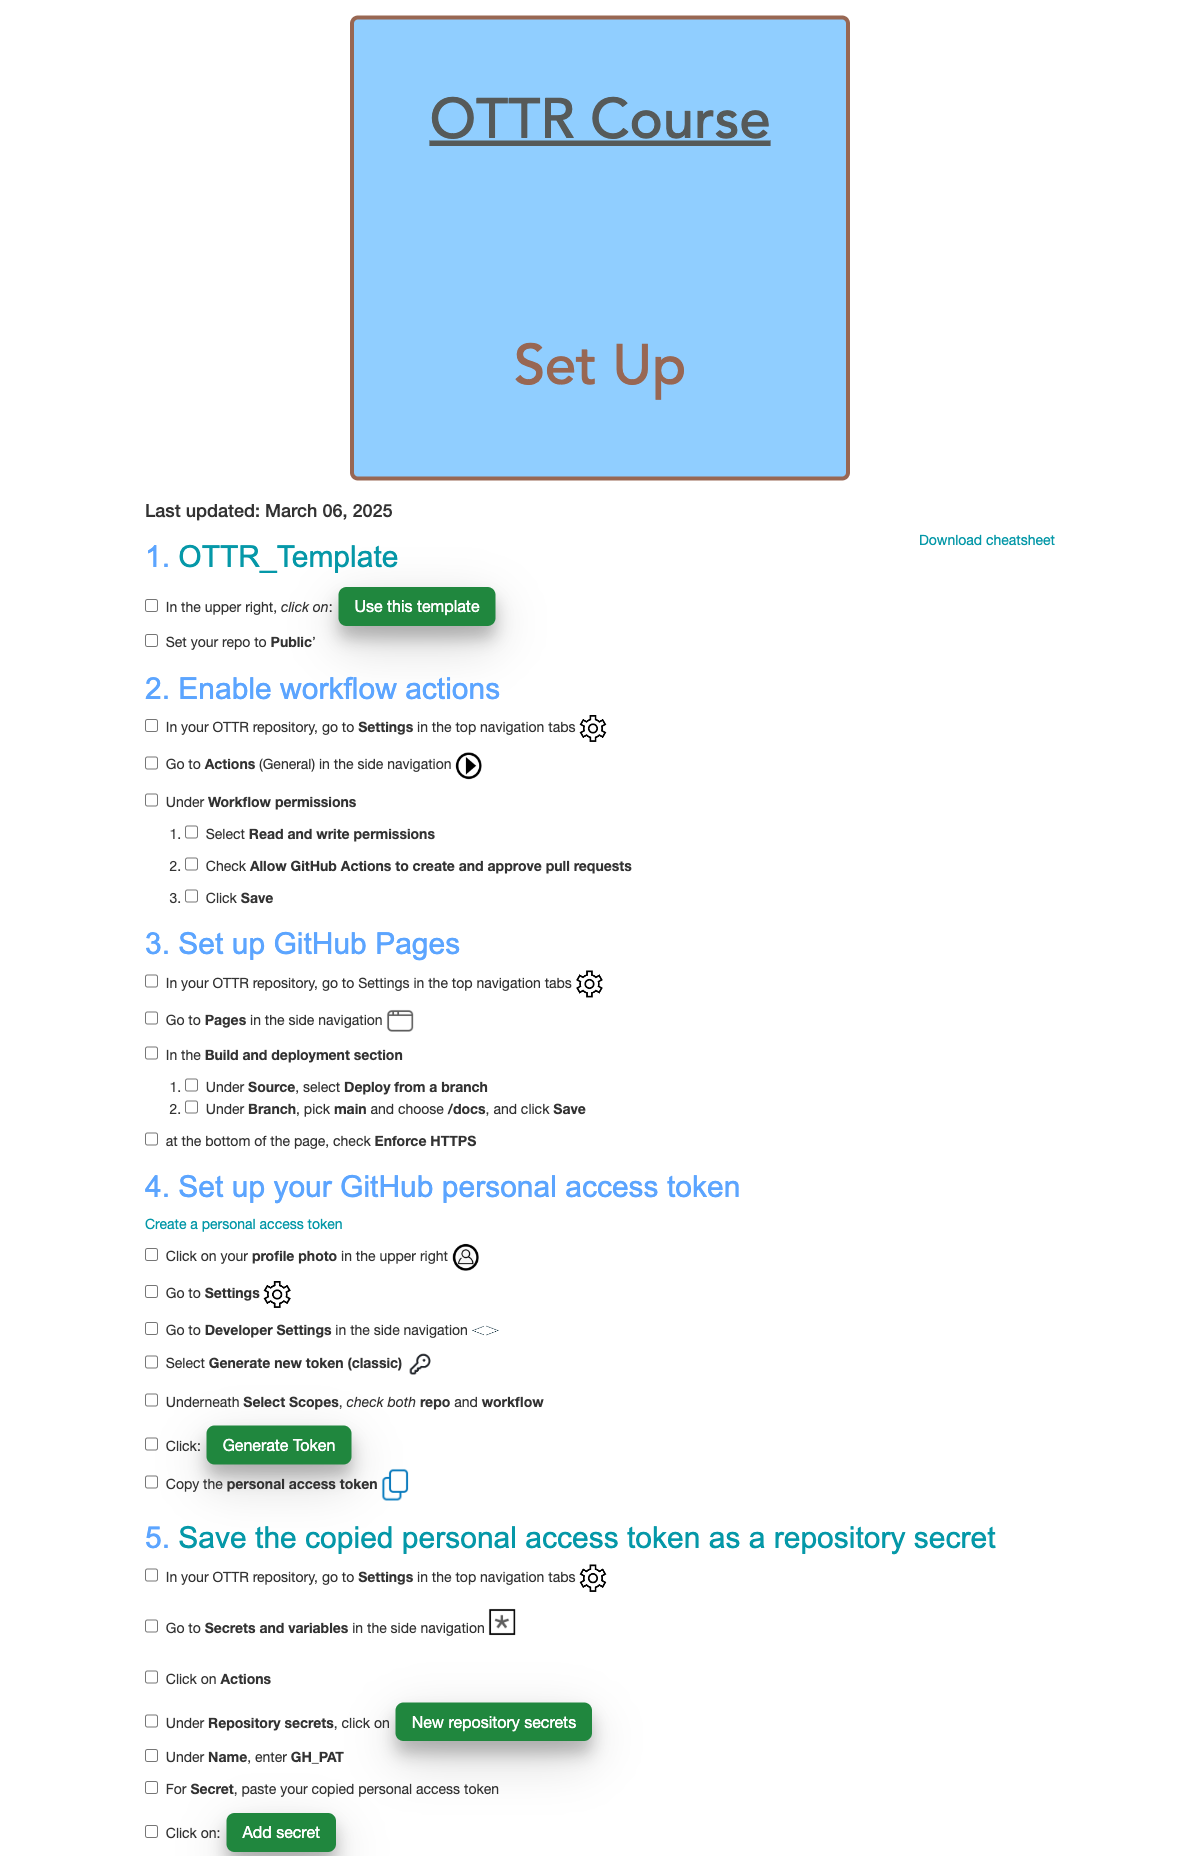
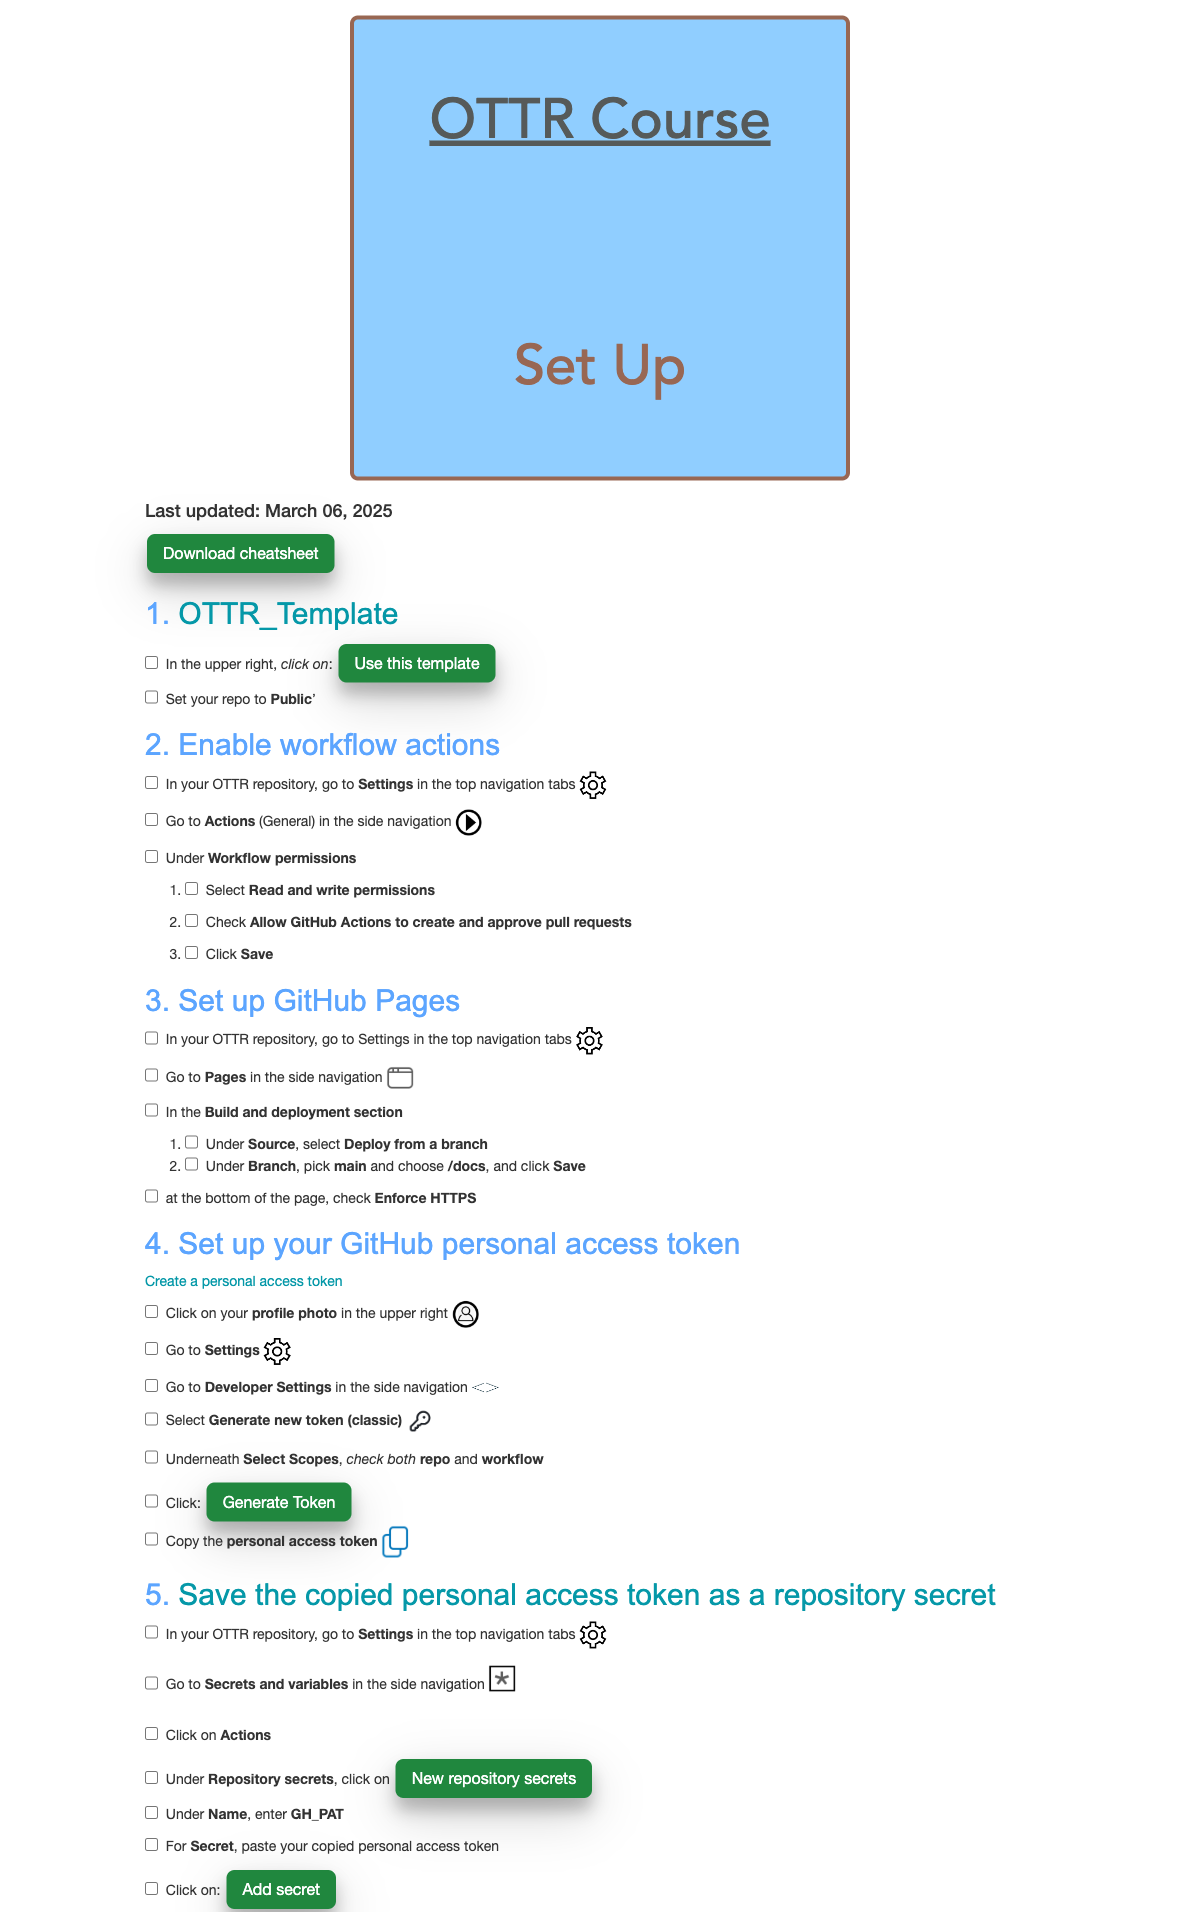
Fix file paths

diff --git a/docs/ottr_quarto_course.html b/docs/ottr_quarto_course.html
@@ -174,10 +174,12 @@ Set Up<br />
 </div>
 
 
-<p><link rel="shortcut icon" href="resources/images/favicon.ico" />
+<p><link rel="shortcut icon" href="css/images/ITN_favicon.ico" />
 <!--- go to https://favicon.io/favicon-converter/ to upload an image to make a new favicon.io. You will need to replace the current favicon.io image with the one in the downloaded directory from the website. The current image is in the resources/images/ directory ---></p>
-<p><a href="https://raw.githubusercontent.com/jhudsl/cheatsheets/refs/heads/main/ottr_quarto_course.png" download="cheatsheet.png" style="float: right;">Download
-cheatsheet</a></p>
+<div class="github_button">
+<a href="https://raw.githubusercontent.com/jhudsl/cheatsheets/refs/heads/main/ottr_quarto_course.png">Download
+cheatsheet</a>
+</div>
 <div id="ottr_quarto" class="section level2">
 <h2><a href="https://github.com/fhdsl/OTTR_Quarto">OTTR_Quarto</a></h2>
 <input type="checkbox"> In the upper right, <em>click on</em>:
@@ -244,7 +246,7 @@ in the upper right
 <img src='resources/icons/settings_gear.png' alt='settings gear icon' class = icon width = '200px'></p>
 <p><input type="checkbox"> Go to <strong>Developer Settings</strong> in
 the side navigation
-<img src="resources/icons/developer_settings.png" alt="developer settings icon" class = icon></p>
+<img src='resources/icons/settings_gear.png' alt='settings gear icon' class = icon width = '200px'></p>
 <p><input type="checkbox"> Select <strong>Generate new token
 (classic)</strong>
 <img src='resources/icons/personal_tokens.png' alt='personal access token icon' class = icon width = '200px'></p>

diff --git a/docs/ottr_website.html b/docs/ottr_website.html
@@ -174,10 +174,12 @@ Set Up<br />
 </div>
 
 
-<p><link rel="shortcut icon" href="resources/images/favicon.ico" />
+<p><link rel="shortcut icon" href="css/images/ITN_favicon.ico" />
 <!--- go to https://favicon.io/favicon-converter/ to upload an image to make a new favicon.io. You will need to replace the current favicon.io image with the one in the downloaded directory from the website. The current image is in the resources/images/ directory ---></p>
-<p><a href="https://raw.githubusercontent.com/jhudsl/cheatsheets/refs/heads/main/ottr_quarto_course.png" download="cheatsheet.png" style="float: right;">Download
-cheatsheet</a></p>
+<div class="github_button">
+<a href="https://raw.githubusercontent.com/jhudsl/cheatsheets/refs/heads/main/ottr_quarto_course.png">Download
+cheatsheet</a>
+</div>
 <div id="ottr_template_website" class="section level2">
 <h2><a
 href="https://github.com/jhudsl/OTTR_Template_Website">OTTR_Template_Website</a></h2>
@@ -245,7 +247,7 @@ in the upper right
 <img src='resources/icons/settings_gear.png' alt='settings gear icon' class = icon width = '200px'></p>
 <p><input type="checkbox"> Go to <strong>Developer Settings</strong> in
 the side navigation
-<img src="resources/icons/developer_settings.png" alt="developer settings icon" class = icon></p>
+<img src='resources/icons/settings_gear.png' alt='settings gear icon' class = icon width = '200px'></p>
 <p><input type="checkbox"> Select <strong>Generate new token
 (classic)</strong>
 <img src='resources/icons/personal_tokens.png' alt='personal access token icon' class = icon width = '200px'></p>

diff --git a/docs/ottr_quarto_website.html b/docs/ottr_quarto_website.html
@@ -174,10 +174,12 @@ Set Up<br />
 </div>
 
 
-<p><link rel="shortcut icon" href="resources/images/favicon.ico" />
+<p><link rel="shortcut icon" href="css/images/ITN_favicon.ico" />
 <!--- go to https://favicon.io/favicon-converter/ to upload an image to make a new favicon.io. You will need to replace the current favicon.io image with the one in the downloaded directory from the website. The current image is in the resources/images/ directory ---></p>
-<p><a href="https://raw.githubusercontent.com/jhudsl/cheatsheets/refs/heads/main/ottr_quarto_website.png" download="cheatsheet.png" style="float: right;">Download
-cheatsheet</a></p>
+<div class="github_button">
+<a href="https://raw.githubusercontent.com/jhudsl/cheatsheets/refs/heads/main/ottr_quarto_website.png">Download
+cheatsheet</a>
+</div>
 <div id="ottr_quarto_website" class="section level2">
 <h2><a
 href="https://github.com/fhdsl/OTTR_Quarto_Website">OTTR_Quarto_Website</a></h2>
@@ -245,7 +247,7 @@ in the upper right
 <img src='resources/icons/settings_gear.png' alt='settings gear icon' class = icon width = '200px'></p>
 <p><input type="checkbox"> Go to <strong>Developer Settings</strong> in
 the side navigation
-<img src="resources/icons/developer_settings.png" alt="developer settings icon" class = icon></p>
+<img src='resources/icons/settings_gear.png' alt='settings gear icon' class = icon width = '200px'></p>
 <p><input type="checkbox"> Select <strong>Generate new token
 (classic)</strong>
 <img src='resources/icons/personal_tokens.png' alt='personal access token icon' class = icon width = '200px'></p>

diff --git a/docs/ottr_course.html b/docs/ottr_course.html
@@ -174,10 +174,12 @@ Set Up<br />
 </div>
 
 
-<p><link rel="shortcut icon" href="resources/images/favicon.ico" />
+<p><link rel="shortcut icon" href="css/images/ITN_favicon.ico" />
 <!--- go to https://favicon.io/favicon-converter/ to upload an image to make a new favicon.io. You will need to replace the current favicon.io image with the one in the downloaded directory from the website. The current image is in the resources/images/ directory ---></p>
-<p><a href="https://raw.githubusercontent.com/jhudsl/cheatsheets/refs/heads/main/ottr_course.png" download="cheatsheet.png" style="float: right;">Download
-cheatsheet</a></p>
+<div class="github_button">
+<a href="https://raw.githubusercontent.com/jhudsl/cheatsheets/refs/heads/main/ottr_course.png">Download
+cheatsheet</a>
+</div>
 <div id="ottr_template" class="section level2">
 <h2><a
 href="https://github.com/jhudsl/OTTR_Template">OTTR_Template</a></h2>
@@ -239,7 +241,7 @@ in the upper right
 <img src='resources/icons/settings_gear.png' alt='settings gear icon' class = icon width = '200px'></p>
 <p><input type="checkbox"> Go to <strong>Developer Settings</strong> in
 the side navigation
-<img src="resources/icons/developer_settings.png" alt="developer settings icon" class = icon></p>
+<img src='resources/icons/settings_gear.png' alt='settings gear icon' class = icon width = '200px'></p>
 <p><input type="checkbox"> Select <strong>Generate new token
 (classic)</strong>
 <img src='resources/icons/personal_tokens.png' alt='personal access token icon' class = icon width = '200px'></p>

diff --git a/docs/social_media.html b/docs/social_media.html
@@ -345,12 +345,12 @@ class="section level1">
 <div class="row">
 <div class="column">
 <center>
-<img src="resources/images/social_media_table.png" width = 50%>
+<img src="css/images/social_media_table.png" width = 50%>
 </center>
 </div>
 <div class="column">
 <center>
-<img src="resources/images/social_media_wordcloud.png" width = 100%>
+<img src="css/images/social_media_wordcloud.png" width = 100%>
 </center>
 </div>
 <p>(75 responses - 35 participants)</p>
@@ -358,7 +358,7 @@ class="section level1">
 <hr>
 <center>
 <a href="https://www.itcrtraining.org/">
-<img src="resources/images/ITN_logo.png" width = 30%> </a>
+<img src="css/images/ITN_logo.png" width = 30%> </a>
 </center>
 <div class="authors">
 <p><strong>Authors</strong>: This cheatsheet is the product of

diff --git a/docs/attending_conferences.html b/docs/attending_conferences.html
@@ -180,14 +180,14 @@ Helpful Tips
 <div class="row">
 <div class="column">
 <center>
-<img src="resources/images/unhappy.png" width = 60% >
+<img src="css/images/unhappy.png" width = 60% >
 </center>
 <p><br> Conferences can feel intimidating, especially your first
 few.</p>
 </div>
 <div class="column">
 <center>
-<img src="resources/images/happy.png" width = 60%>
+<img src="css/images/happy.png" width = 60%>
 </center>
 <p><br> But don’t worry, this is a common feeling. You deserve to be
 attend and no one knows what all the talks are about. In fact,

diff --git a/docs/resources/other_chapters/download_header.md b/docs/resources/other_chapters/download_header.md
@@ -1,5 +1,5 @@
-<link rel="shortcut icon" href="resources/images/favicon.ico" />
+<link rel="shortcut icon" href="css/images/ITN_favicon.ico" />
  <!--- go to https://favicon.io/favicon-converter/ to upload an image to make a new favicon.io. You will need to replace the current favicon.io image with the one in the downloaded directory from the website. The current image is in the resources/images/ directory --->
 
 
- <a href="https://raw.githubusercontent.com/jhudsl/cheatsheets/refs/heads/main/ottr_quarto_course.png" download="cheatsheet.png" style="float: right;">Download cheatsheet</a>
+ <div class = "github_button"><a href="https://raw.githubusercontent.com/jhudsl/cheatsheets/refs/heads/main/ottr_quarto_course.png">Download cheatsheet</a></div>

diff --git a/resources/other_chapters/download_header.md b/resources/other_chapters/download_header.md
@@ -1,5 +1,5 @@
-<link rel="shortcut icon" href="resources/images/favicon.ico" />
+<link rel="shortcut icon" href="css/images/ITN_favicon.ico" />
  <!--- go to https://favicon.io/favicon-converter/ to upload an image to make a new favicon.io. You will need to replace the current favicon.io image with the one in the downloaded directory from the website. The current image is in the resources/images/ directory --->
 
 
- <a href="https://raw.githubusercontent.com/jhudsl/cheatsheets/refs/heads/main/ottr_quarto_course.png" download="cheatsheet.png" style="float: right;">Download cheatsheet</a>
+ <div class = "github_button"><a href="https://raw.githubusercontent.com/jhudsl/cheatsheets/refs/heads/main/ottr_quarto_course.png">Download cheatsheet</a></div>

diff --git a/chunks/download_header.md b/chunks/download_header.md
@@ -1,5 +1,5 @@
-<link rel="shortcut icon" href="resources/images/favicon.ico" />
+<link rel="shortcut icon" href="css/images/ITN_favicon.ico" />
  <!--- go to https://favicon.io/favicon-converter/ to upload an image to make a new favicon.io. You will need to replace the current favicon.io image with the one in the downloaded directory from the website. The current image is in the resources/images/ directory --->
 
 
- <a href="{PATH_TO_PNG}" download="cheatsheet.png" style="float: right;">Download cheatsheet</a>
+ <div class = "github_button"><a href="{PATH_TO_PNG}">Download cheatsheet</a></div>

diff --git a/docs/chunks/download_header.md b/docs/chunks/download_header.md
@@ -1,5 +1,5 @@
-<link rel="shortcut icon" href="resources/images/favicon.ico" />
+<link rel="shortcut icon" href="css/images/ITN_favicon.ico" />
  <!--- go to https://favicon.io/favicon-converter/ to upload an image to make a new favicon.io. You will need to replace the current favicon.io image with the one in the downloaded directory from the website. The current image is in the resources/images/ directory --->
 
 
- <a href="{PATH_TO_PNG}" download="cheatsheet.png" style="float: right;">Download cheatsheet</a>
+ <div class = "github_button"><a href="{PATH_TO_PNG}">Download cheatsheet</a></div>

diff --git a/chunks/token.md b/chunks/token.md
@@ -6,7 +6,7 @@
 
 <input type="checkbox"> Go to **Settings** `r config::get("settings")`
 
-<input type="checkbox"> Go to **Developer Settings** in the side navigation <img src="resources/icons/developer_settings.png" alt="developer settings icon" class = icon>
+<input type="checkbox"> Go to **Developer Settings** in the side navigation `r config::get("settings")`
 
 <input type="checkbox"> Select **Generate new token (classic)** `r config::get("token")`
 

diff --git a/docs/chunks/token.md b/docs/chunks/token.md
@@ -6,7 +6,7 @@
 
 <input type="checkbox"> Go to **Settings** `r config::get("settings")`
 
-<input type="checkbox"> Go to **Developer Settings** in the side navigation <img src="resources/icons/developer_settings.png" alt="developer settings icon" class = icon>
+<input type="checkbox"> Go to **Developer Settings** in the side navigation `r config::get("settings")`
 
 <input type="checkbox"> Select **Generate new token (classic)** `r config::get("token")`
 
